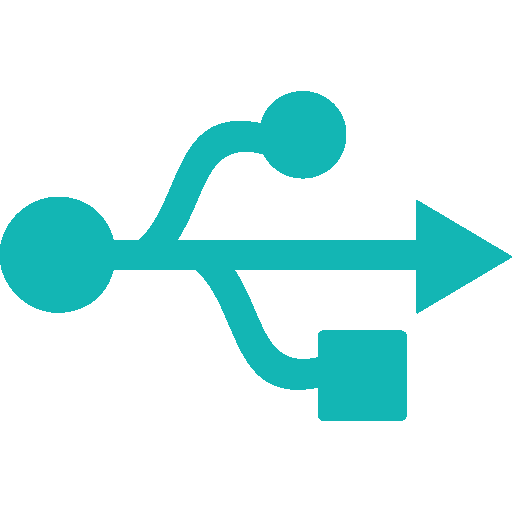
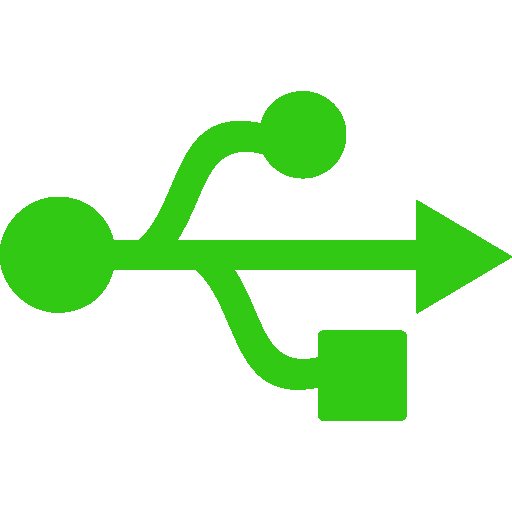
feat: update channels connection dialog styles

Changed region(s): [[0.0, 0.1562, 1.0, 0.8438]]

diff --git a/components/channels_detection.py b/components/channels_detection.py
@@ -45,7 +45,7 @@ class DetectChannelsDialog(QDialog):
         self.app = app
         self.setWindowTitle("Detect Channels")
         self.setWindowIcon(QIcon(resource_path("assets/channel-icon-green.png")))
-        self.setMinimumWidth(350)
+        self.setMinimumWidth(450)
         self.setWindowModality(Qt.WindowModality.ApplicationModal)
         self.setAttribute(Qt.WidgetAttribute.WA_DeleteOnClose)
 
@@ -212,7 +212,7 @@ class DetectChannelsDialog(QDialog):
                         result_label = QLabel(result_text)
                         if connection_type != "Not Detected":
                             result_label.setStyleSheet(
-                                "font-family: Montserrat; font-size: 14px; font-weight: bold; color: #0096FF;"
+                                "font-family: Montserrat; font-size: 14px; font-weight: bold; color: #31c914;"
                             )
                         else:
                             result_label.setStyleSheet(

diff --git a/components/fancy_checkbox.py b/components/fancy_checkbox.py
@@ -3,7 +3,7 @@ from PyQt6.QtGui import QPainter, QColor, QPen, QBrush, QMouseEvent, QIcon
 from PyQt6.QtWidgets import QWidget, QHBoxLayout, QLabel, QPushButton
 
 SELECTED_COLOR = "#31c914"
-SELECTED_HOVER_COLOR = "#0053a4"
+SELECTED_HOVER_COLOR = "#57D33D"
 DISABLED_SELECTED_COLOR = "#2E2E2E"
 UNSELECTED_COLOR = "#000000"
 DISABLED_COLOR = "lightgrey"
@@ -13,7 +13,7 @@ TEXT_COLOR = "#FFFFFF"
 CHECKED_COLOR = "#31c914"
 UNCHECKED_COLOR = "lightgrey"
 
-SELECTED_COLOR_BUTTON = "#0078D7"
+SELECTED_COLOR_BUTTON = "#31c914"
 
 
 
@@ -127,8 +127,8 @@ class FancyButton(QPushButton):
         if not self.isEnabled():
             bg_color = "#3c3c3c" if self.selected else "#000000"
             color = "lightgrey"
-        hover_color = SELECTED_HOVER_COLOR
-        pressed_color = "#003d7a"
+        hover_color = "#31c914"
+        pressed_color = "#7FE777"
 
         self.setStyleSheet(f"""
             QPushButton {{
